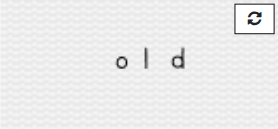
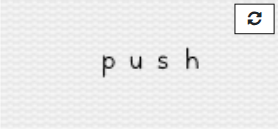
Ok

Changed region(s): [[0.3453, 0.3411, 0.7194, 0.5891]]

diff --git a/main.py b/main.py
@@ -79,6 +79,7 @@ WARNING = f"{Fore.RED}[WARNING] "
 
 SLEEP = 15
 SKIP_WEBHOOK_VERIFICATION = config.getboolean('Settings', 'SKIP_WEBHOOK_CONFIGURATION')
+AUTO_START = config.getboolean('Settings', 'AUTO_START', fallback=False)
 
 OPERATING_SYSTEM = platform.system()
 
@@ -236,9 +237,14 @@ class TikTokBooster:
                         print(f"{ProgramUsage.Translations("errors",0)}")
                 except ValueError:
                     print(f"{ProgramUsage.Translations("errors",1)}")
-        # If user did not pick from history, always ask for a fresh URL
+        # If user did not pick from history, check config or ask for URL
         if self.history_selected is not True:
-            VIDEO = input(f"{Fore.BLUE}Enter TikTok Video URL -> {Fore.WHITE}").strip()
+            config_url = config.get('Settings', 'VIDEO_URL').strip()
+            if config_url:
+                VIDEO = config_url
+                print(f"{INFO}Using URL from config: {Fore.WHITE}{VIDEO}{Style.RESET_ALL}")
+            else:
+                VIDEO = input(f"{Fore.BLUE}Enter TikTok Video URL -> {Fore.WHITE}").strip()
 
         while True:
             try:
@@ -348,9 +354,13 @@ class TikTokBooster:
                 version_main=138,
             )
             self.driver = _uc_driver
+            self._use_uc = True
+            self._uc_options = uc_options
+            self._uc_driver_path = driver_path
             print(f"{INFO}Using undetected_chromedriver (best Cloudflare bypass){Style.RESET_ALL}")
         except Exception as uc_err:
             print(f"{WARNING}undetected_chromedriver failed ({uc_err}), falling back to selenium-stealth{Style.RESET_ALL}")
+            self._use_uc = False
             self.options = webdriver.ChromeOptions()
             safe_options = [
                 "--window-size=1920,1080",
@@ -975,6 +985,21 @@ class TikTokBooster:
 
         print(f"{Fore.CYAN}About to click submit button...{Style.RESET_ALL}")
 
+        # Force-remove any modal overlays that may block the click
+        self.driver.execute_script("""
+            // Remove all modal backdrops and visible modals blocking the form
+            document.querySelectorAll(
+                '.modal-backdrop, .fc-dialog-overlay, [id="zbcd"], .modal.show, .modal.fade.show'
+            ).forEach(function(el) {
+                el.style.display = 'none';
+                el.remove();
+            });
+            // Also restore body scroll which Bootstrap modals disable
+            document.body.classList.remove('modal-open');
+            document.body.style.overflow = '';
+            document.body.style.paddingRight = '';
+        """)
+        time.sleep(0.5)
         self.remove_modal()
         self.remove_ads_vignette()
 
@@ -1001,7 +1026,9 @@ class TikTokBooster:
             
         try:
             time.sleep(2)
-            submit_btn.click()
+            # Use JS click to bypass any remaining overlay interception
+            self.driver.execute_script("arguments[0].scrollIntoView({block:'center'});", submit_btn)
+            self.driver.execute_script("arguments[0].click();", submit_btn)
             print(f"{Fore.GREEN}✅ Submit clicked successfully, verifying...{Style.RESET_ALL}") 
         except Exception as click_err:
             print(f"{Fore.RED}❌ Click failed: {Fore.WHITE}{click_err}{Style.RESET_ALL}")
@@ -1081,23 +1108,29 @@ class TikTokBooster:
 
     def _reset_browser(self):
         self.User_Session.send_heartbeat()
-        """Closes and restarts the browser with stealth, then re-logs in to zefoy."""
+        """Closes and restarts the browser, then re-logs in to zefoy."""
         try:
             self.driver.quit()
         except Exception as e:
             print(f"{WARNING}Error while closing the browser: {e}")
 
-        # Re-create with the same options (already has stealth flags)
-        self.driver = webdriver.Chrome(options=self.options)
-        stealth(
-            self.driver,
-            languages=["en-US", "en"],
-            vendor="Google Inc.",
-            platform="Win32",
-            webgl_vendor="Intel Inc.",
-            renderer="Intel Iris OpenGL Engine",
-            fix_hairline=True,
-        )
+        if getattr(self, '_use_uc', False):
+            try:
+                import undetected_chromedriver as uc
+                self.driver = uc.Chrome(
+                    options=self._uc_options,
+                    driver_executable_path=getattr(self, '_uc_driver_path', None),
+                    use_subprocess=False,
+                    version_main=138,
+                )
+                print(f"{INFO}Browser reset via undetected_chromedriver{Style.RESET_ALL}")
+            except Exception as e:
+                print(f"{WARNING}UC reset failed ({e}), falling back to stealth{Style.RESET_ALL}")
+                self._use_uc = False
+                self._init_stealth_driver()
+        else:
+            self._init_stealth_driver()
+
         self.driver.get('https://zefoy.com/')
         self._wait_for_cloudflare(timeout=150)
         while not self._handle_captcha():
@@ -1106,8 +1139,28 @@ class TikTokBooster:
         time.sleep(1)
         self._check_available()
 
+    def _init_stealth_driver(self):
+        """Create a new Selenium + stealth Chrome driver."""
+        if not hasattr(self, 'options') or self.options is None:
+            self.options = webdriver.ChromeOptions()
+            for opt in ["--window-size=1920,1080","--disable-gpu","--no-sandbox",
+                        "--disable-dev-shm-usage","--enable-unsafe-swiftshader","--log-level=3",
+                        "--disable-blink-features=AutomationControlled","--disable-extensions"]:
+                self.options.add_argument(opt)
+            if OPERATING_SYSTEM == "Linux" and os.path.exists(Static.ChromeBinaryPath):
+                self.options.binary_location = Static.ChromeBinaryPath
+        if OPERATING_SYSTEM == "Linux" and os.path.exists(Static.ChromeDriverPath):
+            from selenium.webdriver.chrome.service import Service
+            service = Service(executable_path=Static.ChromeDriverPath)
+            self.driver = webdriver.Chrome(service=service, options=self.options)
+        else:
+            self.driver = webdriver.Chrome(options=self.options)
+        stealth(self.driver, languages=["en-US","en"], vendor="Google Inc.",
+                platform="Win32", webgl_vendor="Intel Inc.",
+                renderer="Intel Iris OpenGL Engine", fix_hairline=True)
+
     def _click_type_button(self):
-        """Click the service-type button using JS DOM (text-based, layout-independent)."""
+        """Click the service-type button using multiple strategies."""
         type_keywords = {
             'views':     ['video views', 'views'],
             'hearts':    ['hearts', 'likes'],
@@ -1117,21 +1170,53 @@ class TikTokBooster:
             'repost':    ['repost'],
         }
         kws = type_keywords.get(TYPE, [TYPE])
-        print(f"{INFO}Looking for '{TYPE}' button via JS DOM (keywords: {kws})…{Style.RESET_ALL}")
-        # First attempt: pure JS DOM
-        if self._js_click_button(kws, timeout=12):
-            print(f"{INFO}Clicked '{TYPE}' button via JS DOM{Style.RESET_ALL}")
+        print(f"{INFO}Looking for '{TYPE}' button (keywords: {kws})…{Style.RESET_ALL}")
+
+        # Strategy 1: button text matches keyword
+        if self._js_click_button(kws, timeout=5):
+            print(f"{INFO}Clicked '{TYPE}' button via button-text match{Style.RESET_ALL}")
             return True
-        # Fallback: try legacy XPATH
+
+        # Strategy 2: find any clickable element whose PARENT CONTAINER has keyword text
+        # Covers cases where text is in a label above the → arrow button
+        found = self.driver.execute_script("""
+            var kws = arguments[0];
+            // Search buttons whose nearest ancestor card contains any keyword
+            var btns = document.querySelectorAll('button, [role="button"], a[onclick]');
+            for (var i = 0; i < btns.length; i++) {
+                var btn = btns[i];
+                // Walk up to 5 parent levels
+                var el = btn;
+                for (var d = 0; d < 5; d++) {
+                    if (!el || !el.parentElement) break;
+                    el = el.parentElement;
+                    var txt = el.textContent.trim().toLowerCase();
+                    for (var j = 0; j < kws.length; j++) {
+                        if (txt.indexOf(kws[j]) !== -1) {
+                            btn.scrollIntoView({block:'center'});
+                            btn.click();
+                            return kws[j];
+                        }
+                    }
+                }
+            }
+            return null;
+        """, kws)
+        if found:
+            print(f"{INFO}Clicked '{TYPE}' button via parent-container text ('{found}'){Style.RESET_ALL}")
+            return True
+
+        # Strategy 3: try legacy XPATH
         try:
             btn = WebDriverWait(self.driver, 5).until(
                 ec.presence_of_element_located((By.XPATH, Static.typeValues[TYPE])))
             self.driver.execute_script("arguments[0].click();", btn)
-            print(f"{INFO}Clicked '{TYPE}' button via XPATH fallback{Style.RESET_ALL}")
+            print(f"{INFO}Clicked '{TYPE}' button via XPATH{Style.RESET_ALL}")
             return True
         except Exception:
             pass
-        # Last resort: dump buttons so we can see what IS on page
+
+        # Last resort: dump all buttons for debug info
         all_btns = self._js_dump_buttons()
         print(f"{WARNING}Button '{TYPE}' not found. Buttons on page: {all_btns}{Style.RESET_ALL}")
         return False
@@ -1372,22 +1457,27 @@ class TikTokBooster:
                 ec.presence_of_element_located((By.XPATH, Static.readyValues[TYPE]))).text) <= 0
     def _show_typeconfig(self):
         global TYPE
-        us = 0
-        def available_color(type):
-            if type in self.elements:
+        def available_color(t):
+            if t in self.elements:
                 return Fore.GREEN
             return Fore.RED
-        """Show the program configuration menu"""
         os.system("cls") if os.name == 'nt' else os.system("clear")
         print("Type Configuration : \n")
-        print(f"{available_color('views')}[{'1' if available_color('views') == Fore.GREEN else '-'}] {'Views'} {f'[{ProgramUsage.Translations("main",9)}]' if TYPE.lower() == 'views' else ''}")
-        print(f"{available_color('followers')}[{'2' if available_color('followers') == Fore.GREEN else '-'}] {'Followers'} {f'[{ProgramUsage.Translations("main",9)}]' if TYPE.lower() == 'followers' else ''}")
-        print(f"{available_color('favorites')}[{'3' if available_color('favorites') == Fore.GREEN else '-'}] {'Favorites'} {f'[{ProgramUsage.Translations("main",9)}]' if TYPE.lower() == 'favorites' else ''}")
-        print(f"{available_color('shares')}[{'4' if available_color('shares') == Fore.GREEN else '-'}] {'Shares'} {f'[{ProgramUsage.Translations("main",9)}]' if TYPE.lower() == 'shares' else ''}")
-        print(f"{available_color('hearts')}[{'5' if available_color('hearts') == Fore.GREEN else '-'}] {'Hearts'} {f'[{ProgramUsage.Translations("main",9)}]' if TYPE.lower() == 'hearts' else ''}")
-        print(f"{available_color('repost')}[{'6' if available_color('repost') == Fore.GREEN else '-'}] {f'Repost {Fore.YELLOW} [NEW!!] {Style.RESET_ALL}'} {f'[{ProgramUsage.Translations("main",9)}]' if TYPE.lower() == 'repost' else ''}")
-        print(Fore.CYAN,f"\n[99] - {ProgramUsage.Translations("main",8)}!",Style.RESET_ALL)
+        _sel = ProgramUsage.Translations('main', 9)
+        print(f"{available_color('views')}[{'1' if available_color('views') == Fore.GREEN else '-'}] Views {f'[{_sel}]' if TYPE.lower() == 'views' else ''}")
+        print(f"{available_color('followers')}[{'2' if available_color('followers') == Fore.GREEN else '-'}] Followers {f'[{_sel}]' if TYPE.lower() == 'followers' else ''}")
+        print(f"{available_color('favorites')}[{'3' if available_color('favorites') == Fore.GREEN else '-'}] Favorites {f'[{_sel}]' if TYPE.lower() == 'favorites' else ''}")
+        print(f"{available_color('shares')}[{'4' if available_color('shares') == Fore.GREEN else '-'}] Shares {f'[{_sel}]' if TYPE.lower() == 'shares' else ''}")
+        print(f"{available_color('hearts')}[{'5' if available_color('hearts') == Fore.GREEN else '-'}] Hearts {f'[{_sel}]' if TYPE.lower() == 'hearts' else ''}")
+        print(f"{available_color('repost')}[{'6' if available_color('repost') == Fore.GREEN else '-'}] Repost {Fore.YELLOW}[NEW!!]{Style.RESET_ALL} {f'[{_sel}]' if TYPE.lower() == 'repost' else ''}")
+
+        if AUTO_START:
+            print(f"{INFO}AUTO_START enabled — using TYPE from config: {Fore.WHITE}{TYPE}{Style.RESET_ALL}")
+            return
+
+        print(Fore.CYAN, f"\n[99] - {ProgramUsage.Translations('main',8)}!", Style.RESET_ALL)
         print("\n")
+        us = 0
         while True:
             try:
                 us = int(input(f"{WAITING}Select an option \n-> {Style.RESET_ALL}").lower())
@@ -1425,6 +1515,10 @@ class TikTokBooster:
         InitialInfo.CREATOR = self.tiktok_info.get_video_info(Creator=True)
         InitialInfo.VIEWS_BEFORE = self.tiktok_info.get_video_info(Views=True)
         Handler.info_banner(_gather_info('views'),_gather_info('shares'),_gather_info('likes'),AMOUNT,INFO,_gather_info('creator'),TYPE) # Show Info Banner
+
+        if AUTO_START:
+            print(f"{INFO}AUTO_START enabled — starting automatically...{Style.RESET_ALL}")
+            return
 
         while True:
             us = input(f"{WAITING}Want to start? (y/n)\n-> {Style.RESET_ALL}").lower()
